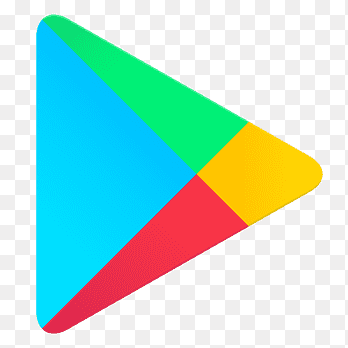
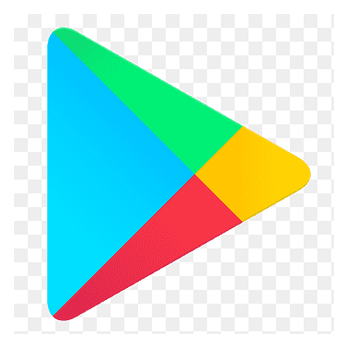
- إضافه فئه فورمولا 1 الى الفئات (39 فئه) - زر قيّم على Google Play تحت زر App Store - موازنه حجم ايقونه googleplay مع appstore - تحسين نص "حمّل على الأندرويد"

diff --git a/index.html b/index.html
@@ -177,6 +177,7 @@ nav.scrolled{box-shadow:0 4px 30px rgba(0,0,0,0.15)}
 .rate-img{width:clamp(180px,30vw,240px);margin-bottom:24px;filter:drop-shadow(0 16px 40px rgba(0,0,0,0.1))}
 .rate-title{font-size:clamp(24px,4vw,34px);font-weight:900;margin-bottom:10px;color:var(--dark)}
 .rate-sub{color:var(--muted);font-size:clamp(13px,2vw,16px);font-weight:600;margin-bottom:28px;max-width:460px;margin-left:auto;margin-right:auto;line-height:1.7}
+.rate-btns{display:flex;gap:14px;justify-content:center;flex-wrap:wrap}
 .rate-btn{display:inline-flex;align-items:center;gap:10px;background:linear-gradient(135deg,#6B0F24,#4A0916);color:#fff;padding:14px 32px;border-radius:16px;font-size:16px;font-weight:800;box-shadow:0 8px 28px rgba(138,21,56,0.3);transition:all 0.3s}
 .rate-btn:hover{transform:translateY(-4px);box-shadow:0 16px 40px rgba(138,21,56,0.4)}
 .rate-btn img{width:22px;height:22px}
@@ -301,7 +302,7 @@ footer{background:#fff;padding:48px 24px;text-align:center;border-top:1px solid 
 <div class="stats-wrap">
   <div class="stats rv">
     <div class="stat"><div class="s-num" data-t="3">0</div><div class="s-label">أنماط لعب</div></div>
-    <div class="stat"><div class="s-num" data-t="38" data-suffix="+">0</div><div class="s-label">فئة</div></div>
+    <div class="stat"><div class="s-num" data-t="39" data-suffix="+">0</div><div class="s-label">فئة</div></div>
     <div class="stat"><div class="s-num" data-t="5000" data-suffix="+">0</div><div class="s-label">سؤال</div></div>
   </div>
 </div>
@@ -340,9 +341,10 @@ footer{background:#fff;padding:48px 24px;text-align:center;border-top:1px solid 
 <section class="sec cats-sec" id="cats">
   <div class="sec-inner">
     <div class="sec-label rv">الفئات</div>
-    <div class="sec-title rv">+38 فئة تغطي كل شي</div>
+    <div class="sec-title rv">+39 فئة تغطي كل شي</div>
     <div class="sec-sub rv">فئات متجددة — من الرياضة للتاريخ، ومن الأصوات للخرائط</div>
     <div class="cats-grid">
+      <div class="cat rv"><img src="cat-formula.jpg" alt=""><div class="cat-ov"><span class="cat-n">فورمولا 1</span></div><div class="cat-badge">جديد</div></div>
       <div class="cat rv"><img src="cat-jamiya.jpg" alt=""><div class="cat-ov"><span class="cat-n">جمعية</span></div><div class="cat-badge">جديد</div></div>
       <div class="cat rv"><img src="cat-banat.jpg" alt=""><div class="cat-ov"><span class="cat-n">بنات وبس</span></div><div class="cat-badge">جديد</div></div>
       <div class="cat rv"><img src="cat-khaleeji.jpg" alt=""><div class="cat-ov"><span class="cat-n">فن خليجي</span></div><div class="cat-badge">جديد</div></div>
@@ -492,9 +494,14 @@ footer{background:#fff;padding:48px 24px;text-align:center;border-top:1px solid 
   <img class="rate-img rv" src="falcon-rate.png" alt="قيّم اللمّة">
   <div class="rate-title rv">عجبتك اللمّة؟ قيّمنا!</div>
   <div class="rate-sub rv">تقييمك يساعدنا نوصل لناس أكثر ونطوّر اللعبة — كل نجمة تفرق!</div>
-  <a class="rate-btn rv" href="https://apps.apple.com/app/id6760367652?action=write-review" target="_blank">
-    <img src="appstore.png" alt="">قيّم على App Store
-  </a>
+  <div class="rate-btns rv">
+    <a class="rate-btn" href="https://apps.apple.com/app/id6760367652?action=write-review" target="_blank">
+      <img src="appstore.png" alt="">قيّم على App Store
+    </a>
+    <a class="rate-btn" href="https://play.google.com/store/apps/details?id=com.allamma.app" target="_blank">
+      <img src="googleplay.png" alt="">قيّم على Google Play
+    </a>
+  </div>
 </section>
 
 <!-- FOOTER -->
